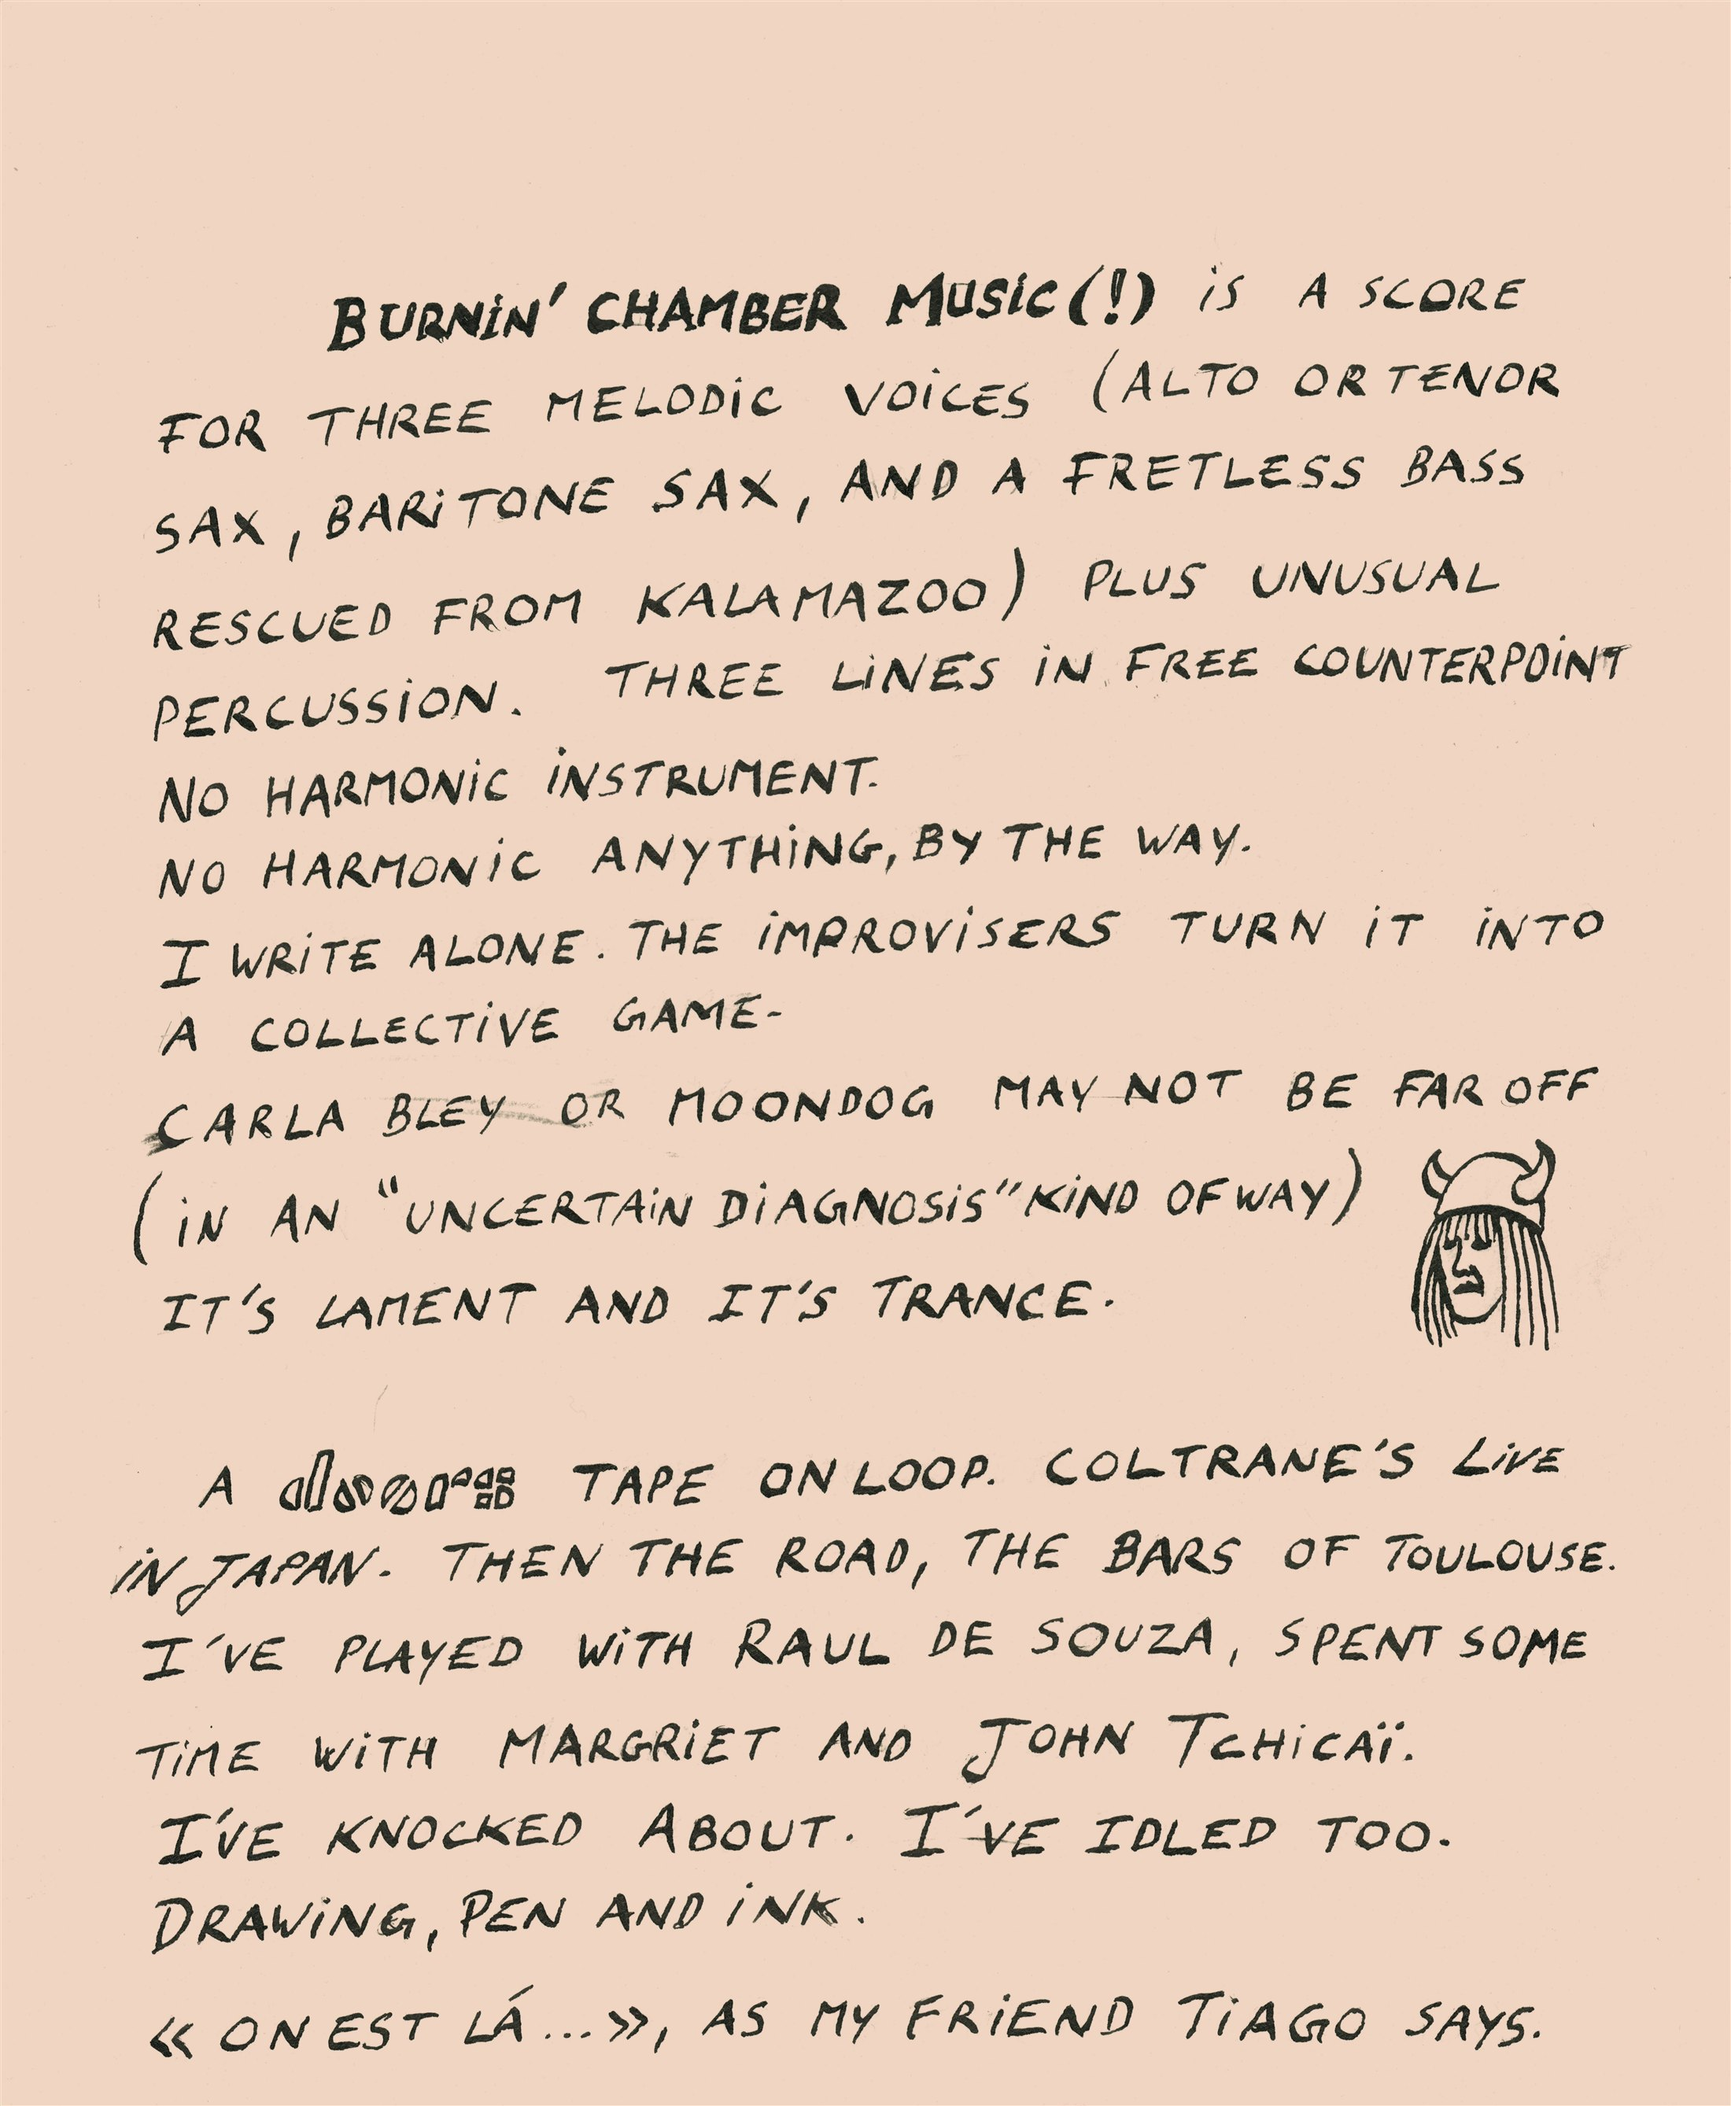
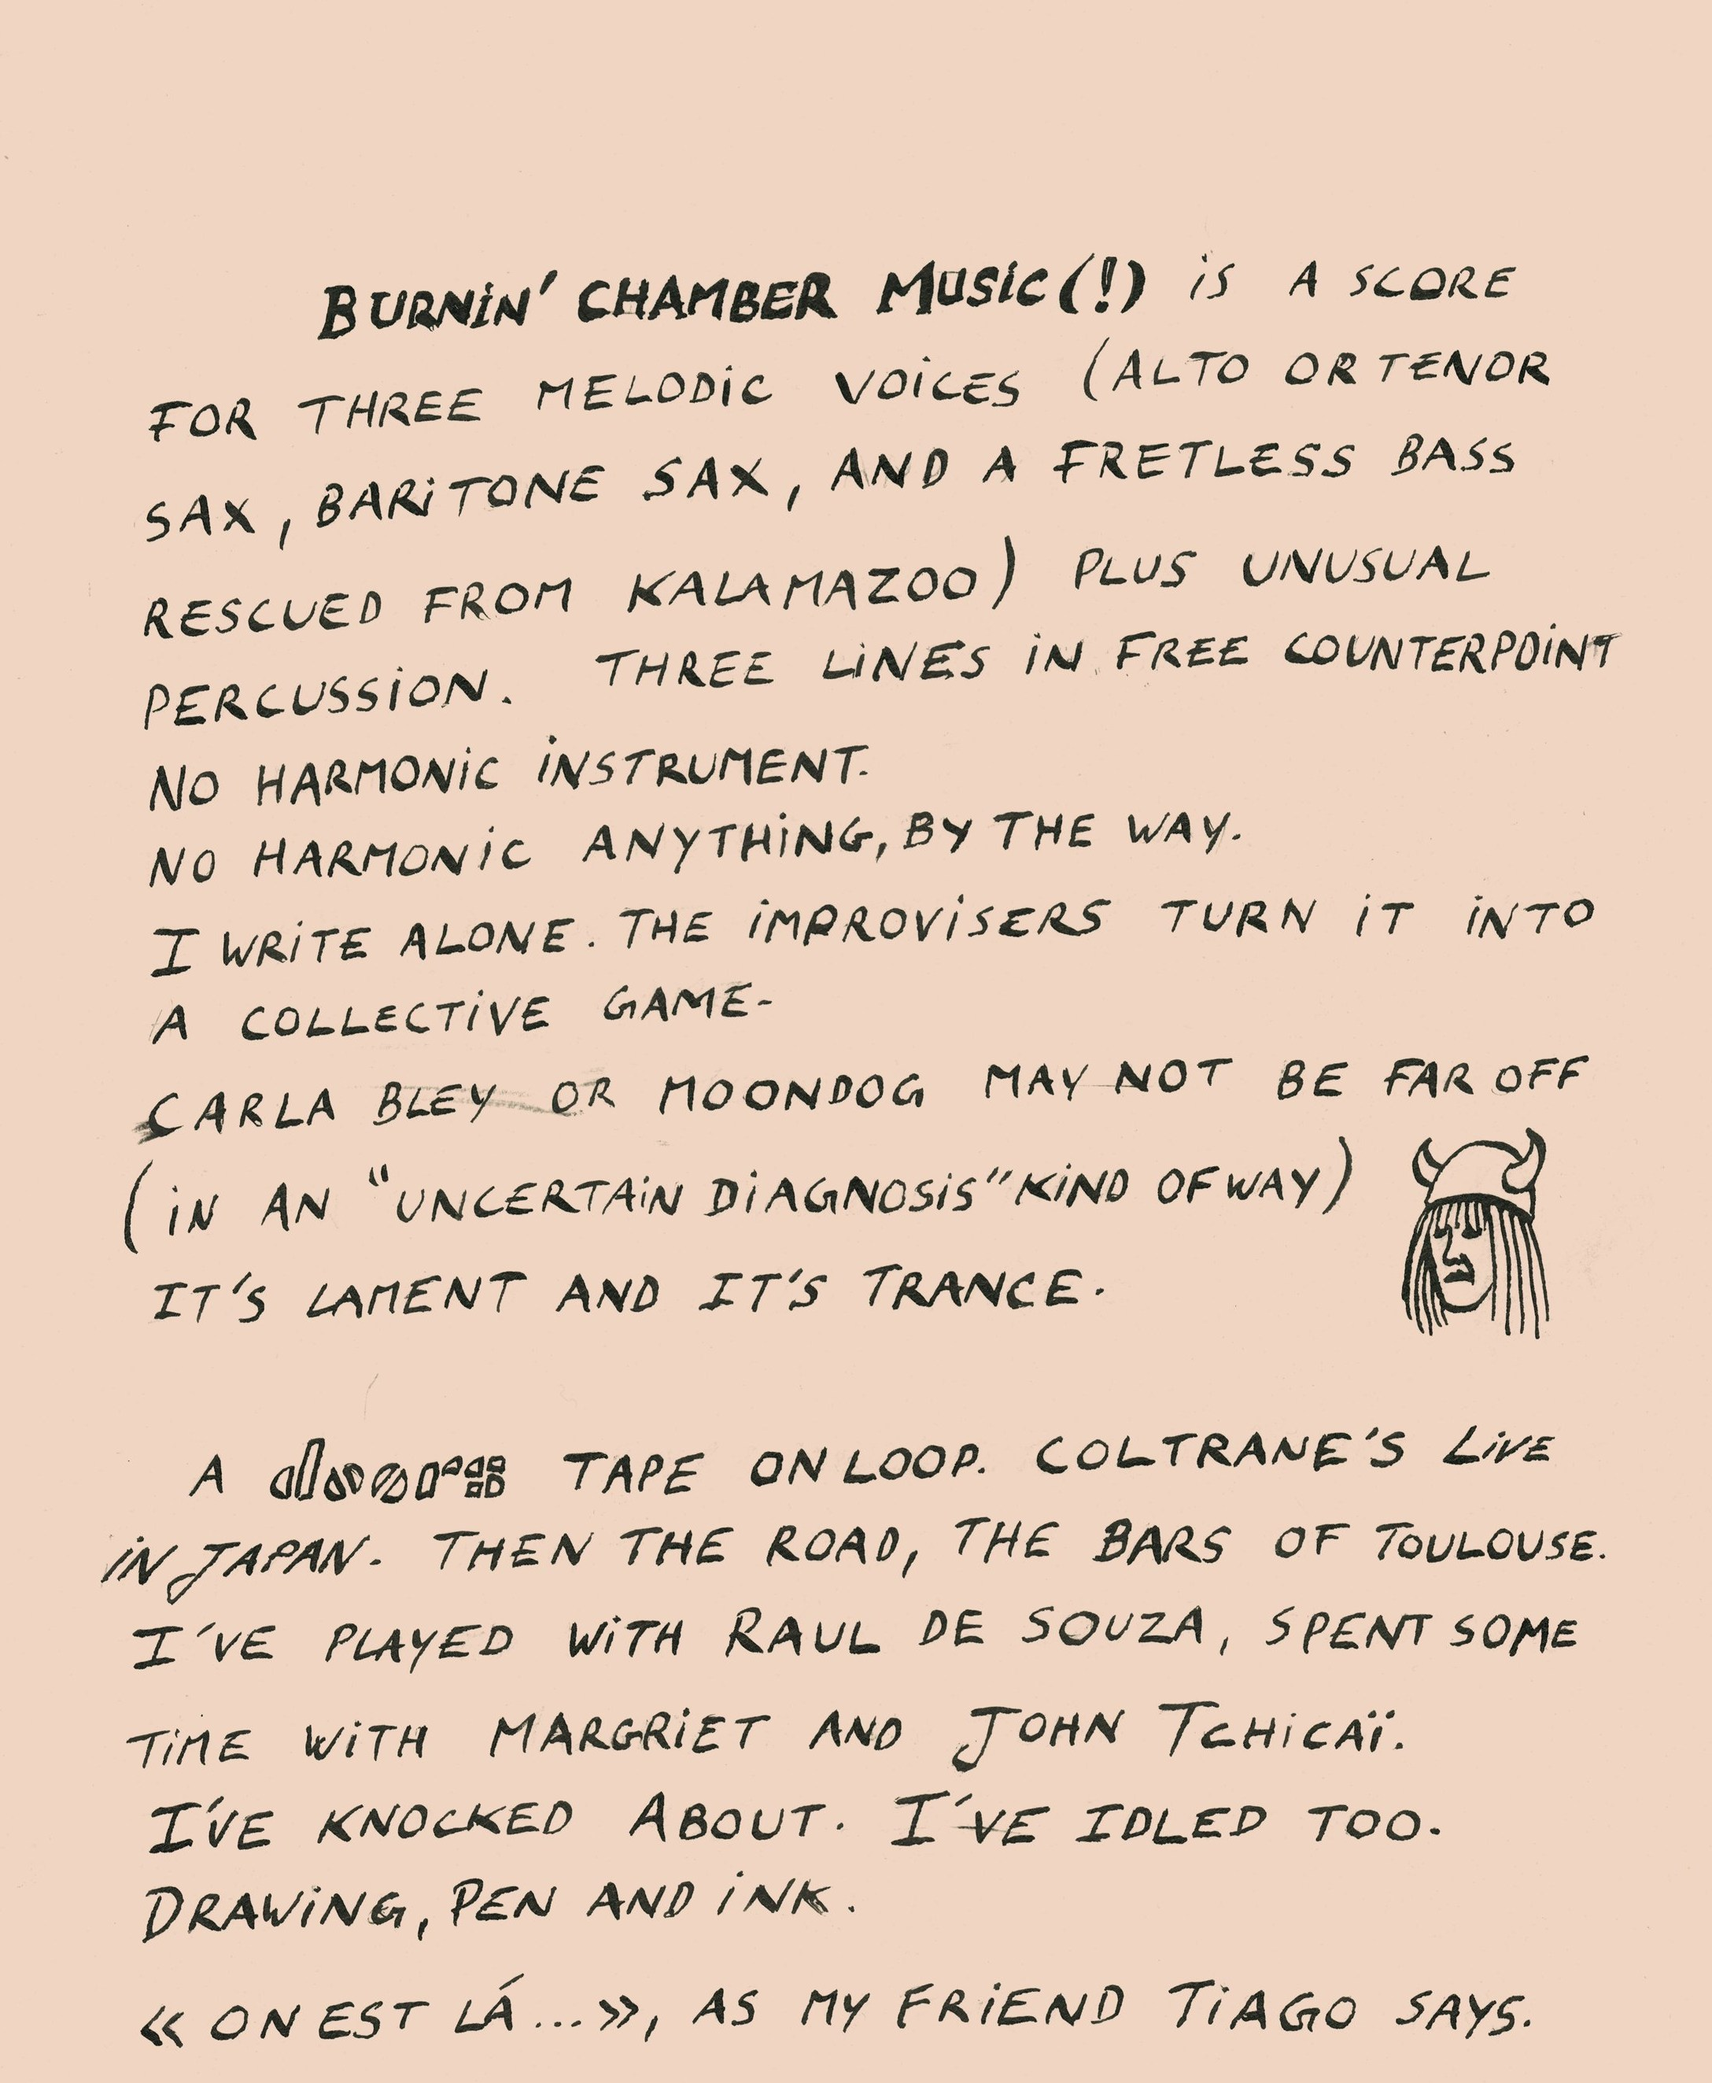
Crop the faint light fringe at the edge of cadre.jpg and argumentum.jpg
Both scanned images had a ~8px halo noticeably lighter than the page
background right at their border (likely an artifact from the earlier
downscale pass). Cropped it off; both images now blend exactly into
the page background at their edges.

diff --git a/styles.css b/styles.css
@@ -87,7 +87,7 @@ nav.menu a:hover, nav.menu a:focus-visible { opacity: .6; }
 }
 
 /* sous-pages encadrées (video, audio, contact, agenda, codex) */
-.frame-page { position: relative; width: min(96vw, 1100px); aspect-ratio: 6994 / 9882; margin: 2.5rem auto 1rem; background: url(cadre.jpg?v=4) center / 100% 100% no-repeat; }
+.frame-page { position: relative; width: min(96vw, 1100px); aspect-ratio: 6994 / 9882; margin: 2.5rem auto 1rem; background: url(cadre.jpg?v=5) center / 100% 100% no-repeat; }
 /* le cartouche : bande vide entre les deux filets ornés en haut du cadre */
 .frame-title { position: absolute; left: 3.58%; top: 4.68%; width: 88.65%; height: 5.26%; display: flex; align-items: center; justify-content: center; }
 .frame-title img { max-width: 100%; max-height: 100%; object-fit: contain; }

diff --git a/argumentum.html b/argumentum.html
@@ -19,7 +19,7 @@
 <main class="argumentum-page">
   <h1 class="visually-hidden">Argumentum — Comodoro Süleyman</h1>
   <img class="titre" src="titre-argumentum.png" alt="Argumentum" style="max-width:200px; display:block; margin:0 auto 1rem;">
-  <img class="manuscript" src="argumentum.jpg?v=3" alt="Handwritten text: Burnin' Chamber Music (!) is a score for three melodic voices...">
+  <img class="manuscript" src="argumentum.jpg?v=4" alt="Handwritten text: Burnin' Chamber Music (!) is a score for three melodic voices...">
 
   <p class="presskit-download"><a class="content-link" href="press-kit.pdf" download target="_blank" rel="noopener"><img src="download-arrow.png?v=3" alt="" class="download-arrow">Press Kit</a></p>
 
